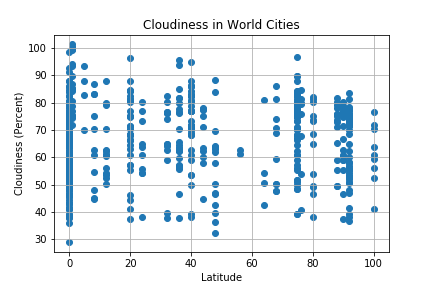
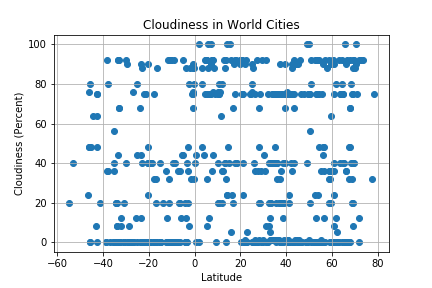
Add files via upload

Changed region(s): [[0.0602, 0.125, 0.9028, 0.9375], [0.8426, 0.875, 0.9028, 0.9375]]

diff --git a/HW6/WeatherPy-Aref-HW6.py b/HW6/WeatherPy-Aref-HW6.py
@@ -152,10 +152,10 @@ plt.savefig("TemperatureInWorldCities.png")
 plt.show()
 
 
-# In[8]:
+# In[13]:
 
 
-plt.scatter(humidity, temp_data, marker="o")
+plt.scatter(lat_data, humidity, marker="o")
 
 # Incorporate the other graph properties
 plt.title("Humidity in World Cities")
@@ -170,10 +170,10 @@ plt.savefig("HumidityInWorldCities.png")
 plt.show()
 
 
-# In[9]:
+# In[14]:
 
 
-plt.scatter(cloudy, temp_data, marker="o")
+plt.scatter(lat_data, cloudy, marker="o")
 
 # Incorporate the other graph properties
 plt.title("Cloudiness in World Cities")
@@ -188,10 +188,10 @@ plt.savefig("CloudinessInWorldCities.png")
 plt.show()
 
 
-# In[10]:
+# In[15]:
 
 
-plt.scatter(wind_speed, temp_data, marker="o")
+plt.scatter(lat_data, wind_speed, marker="o")
 
 # Incorporate the other graph properties
 plt.title("Wind Speed in World Cities")
@@ -206,7 +206,7 @@ plt.savefig("WindSpeedInWorldCities.png")
 plt.show()
 
 
-# In[11]:
+# In[ ]:
 
 
 # Open the file using "write" mode. Specify the variable to hold the contents
